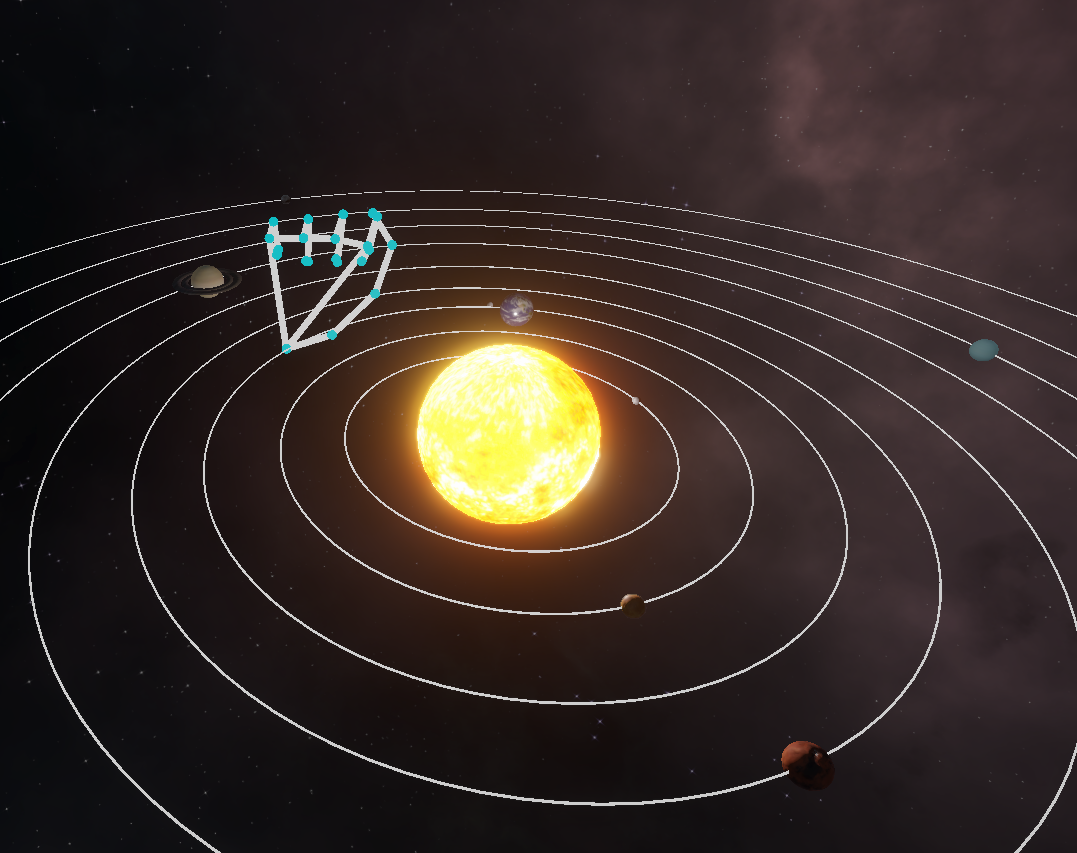
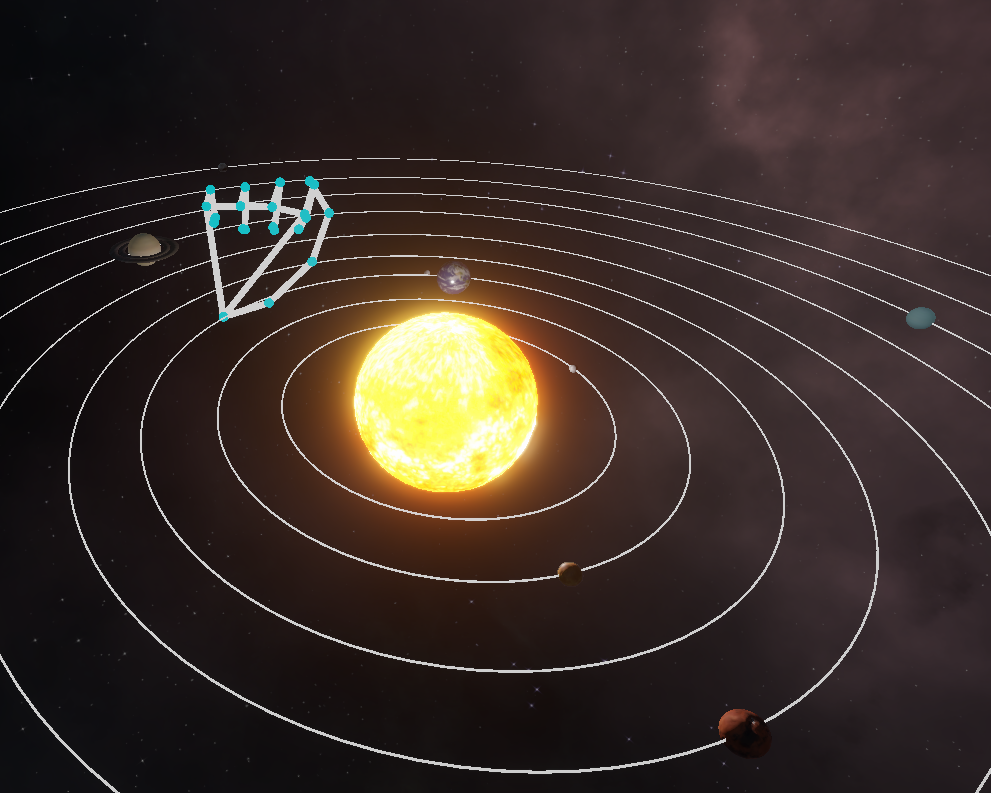
readme

diff --git a/README.md b/README.md
@@ -17,7 +17,7 @@ Die Funktionsfähigkeit beider Eingabegeräte kann direkt in der Software überp
 **Gestensteuerung**
 | Zoom In | Zoom Out |
 | --- | --- |
-| <img src="Src/zoomout.png" width=500> | <img src="Src/zoomin.png" width=500> |
+| <img src="src/zoomout.png"> | <img src="src/zoomin.png"> |
 
 - Das Hinein- und Herauszoomen erfolgt über entsprechende Handgesten(siehe Abbildungen)
 - Das Rotieren der Kamera erfolgt durch Handbewgungen - je nachdem, zu welcher Seite die Hand stärker geneigt ist
@@ -54,7 +54,7 @@ Das Ziel der Teilnehmenden ist die aktive Erkundung des Sonnensystems, das Auffi
 Die Umgebung ist ein virtuelles 3D-Sonnensystem, das Sonne, Planeten, Asteroiden und weitere astronomische Objekte enthält. Die Bedingungen sind auf Desktop-Anwendungen ausgelegt, mit realistischen Skalierungen, Bewegungen, Lichtverhältnissen und noch zusätzlichen Easter eggs. Die Umgebung ist aktiv in die Interaktion eingebunden: Himmelskörper können ausgewählt werden, Umlaufbahnen und Rotationen beeinflussen die Bewegungsfreiheit der Teilnehmenden, und die virtuelle Szenerie reagiert auf die multimodale Steuerung.<br><br>
 
 ## Storyboarding
-![Storyboard](Src/storyboard.png)
+![Storyboard](src/storyboard.png)
 Das Storyboard illustriert explizit an einem Beispiel die multimodale Steuerung der Anwendung :
 
 - **Voice Control:** Das System reagiert auf deutsche Sprachbefehle, um spezifische Himmelskörper anzuzeigen - "Zeig mir Pluto" (auch wenn Pluto kein Planet ist ).
